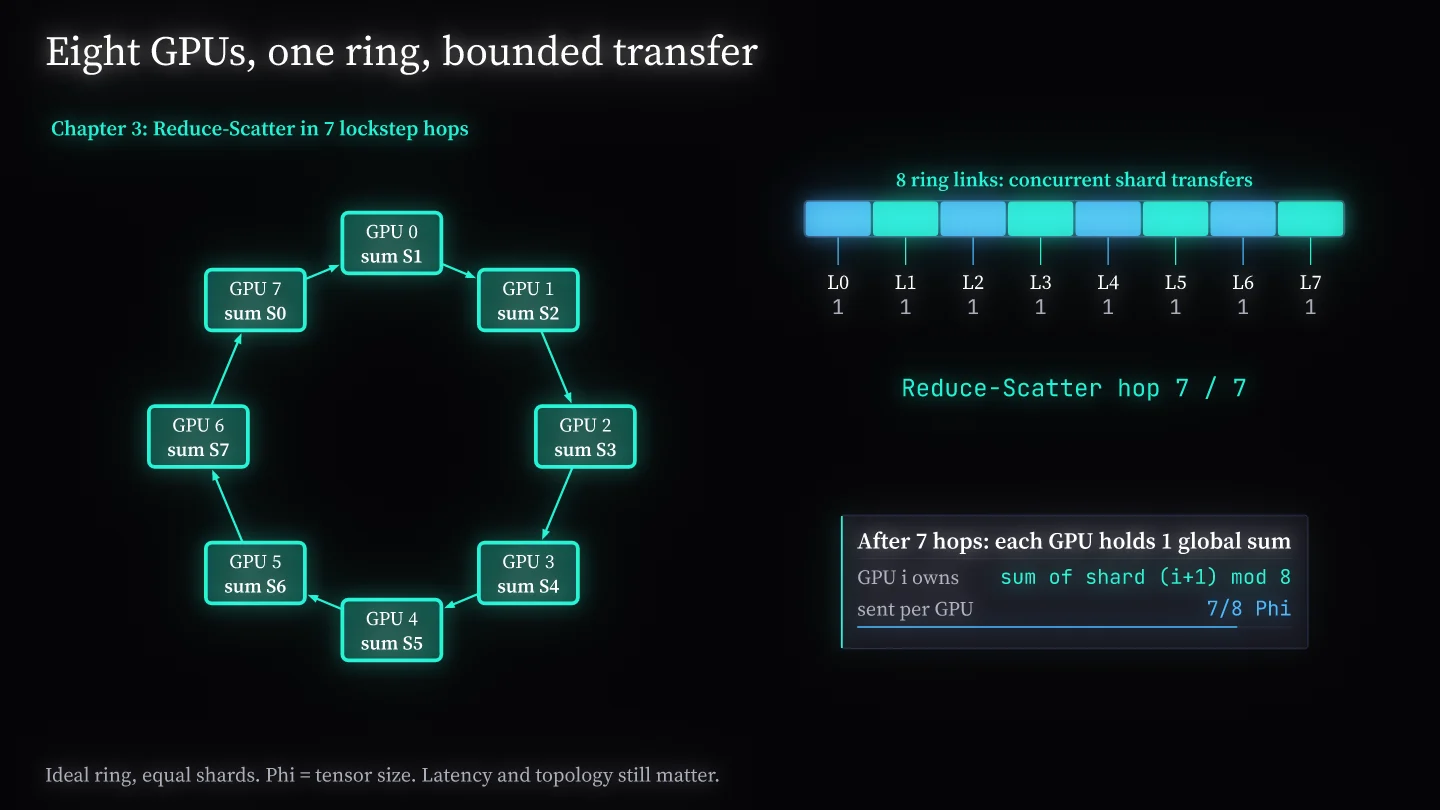
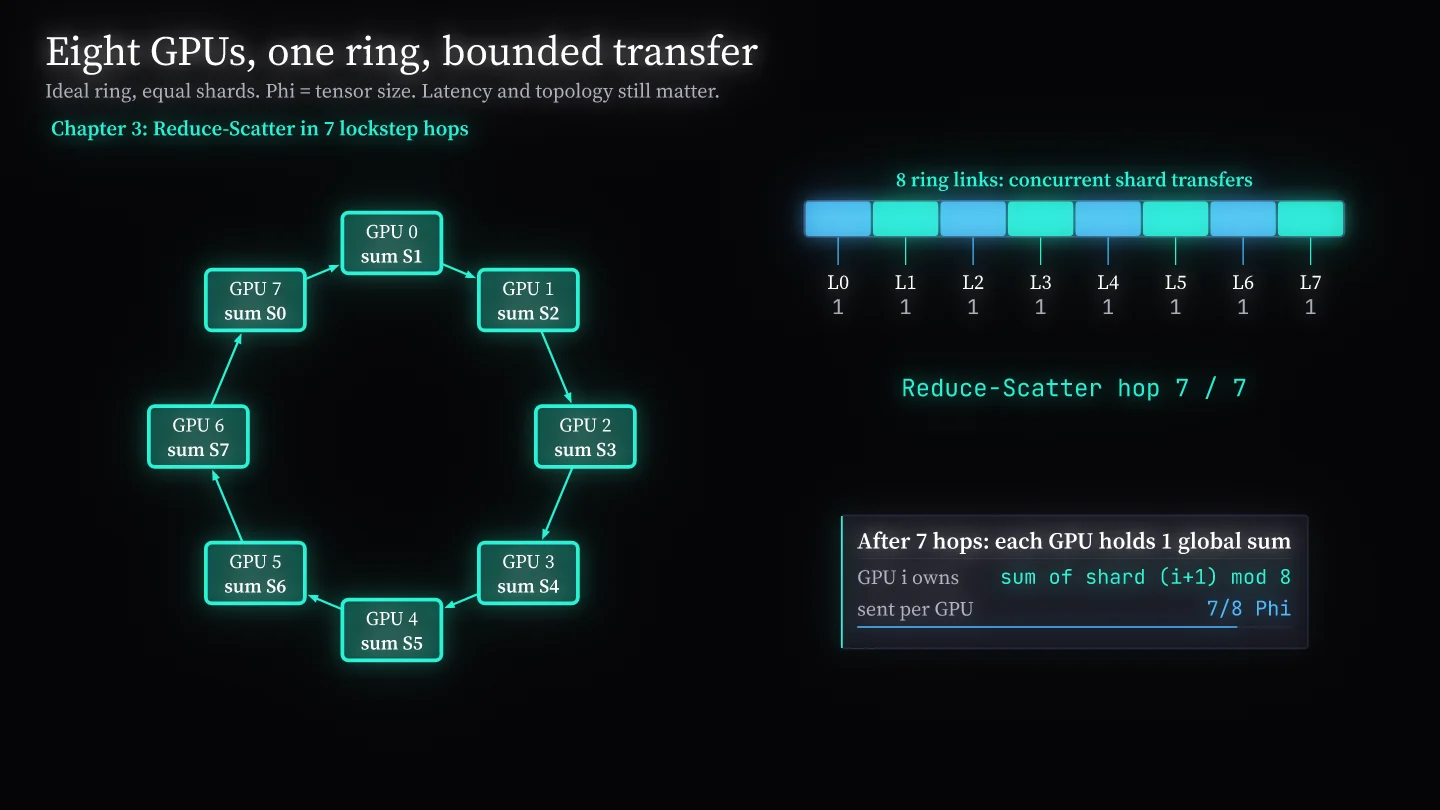
Preserve Studio editor focus and keep film sources clear of player controls

Changed region(s): [[0.0312, 0.0926, 0.5, 0.1235], [0.2188, 0.9259, 0.5, 0.9877], [0.0312, 0.9259, 0.1875, 0.9877]]

diff --git a/src/studio/panels.ts b/src/studio/panels.ts
@@ -265,8 +265,6 @@ export class Inspector {
             beat ? `beat:${beat.id}:${beat.kind}:${beat.ease}` : '',
             object ? `object:${object.id}:${object.kind}` : '',
             selection.length,
-            this.app.built?.objectErrors.size ?? 0,
-            this.app.built?.beatErrors.size ?? 0,
             object ? project.beats.filter((entry) => entry.target === object.id).map((entry) => `${entry.id}${entry.kind}`).join() : '',
             !object && !beat && selection.length === 0 ? project.variables.map((variable) => variable.name).join() : '',
             project.objects.length,
@@ -276,6 +274,13 @@ export class Inspector {
             this.rebuild(beat, object)
         } else {
             for (const control of this.controls) control.sync()
+        }
+        for (const message of this.body.querySelectorAll<HTMLElement>('[data-object-error], [data-beat-error]')) {
+            const error = message.dataset.objectError
+                ? this.app.built?.objectErrors.get(message.dataset.objectError)
+                : this.app.built?.beatErrors.get(message.dataset.beatError!)
+            message.textContent = error ?? ''
+            message.hidden = !error
         }
     }
 
@@ -332,7 +337,7 @@ export class Inspector {
         })
         wrap.appendChild(h('header', { class: 'inspector-head' }, nameInput, h('span', { class: 'kind-tag' }, def?.label ?? object.kind)))
         const error = this.app.built?.objectErrors.get(object.id)
-        if (error) wrap.appendChild(h('p', { class: 'inspector-error', role: 'alert' }, error))
+        wrap.appendChild(h('p', { class: 'inspector-error', role: 'alert', 'data-object-error': object.id, hidden: !error }, error ?? ''))
         const transform = h('div', { class: 'field-grid' })
         for (const field of TRANSFORM_FIELDS) {
             this.addField(transform, field, {
@@ -433,7 +438,7 @@ export class Inspector {
                 h('span', { class: 'head-actions' },
                     iconButton('play', { title: 'Preview this beat', testId: 'preview-beat', onClick: () => this.app.previewBeat(beat.id) }),
                     iconButton('trash', { title: 'Delete this beat (Delete)', testId: 'delete-beat', onClick: () => this.app.deleteBeat(beat.id) }))),
-            error ? h('p', { class: 'inspector-error', role: 'alert' }, error) : null,
+            h('p', { class: 'inspector-error', role: 'alert', 'data-beat-error': beat.id, hidden: !error }, error ?? ''),
             this.section('Timing', grid, easeButton ? h('div', { class: 'field' }, h('span', { class: 'field-label' }, 'Easing'), h('div', { class: 'field-control' }, easeButton)) : null),
             def?.fields.length ? this.section('Settings', stack) : null)
     }

diff --git a/examples/films/flash-attention.ts b/examples/films/flash-attention.ts
@@ -148,7 +148,7 @@ export default film(
         poster: 21.5,
     },
     (s) => {
-        const kit = sceneKit({ size: 38 })
+        const kit = sceneKit({ size: 38, source: { y: -420 } })
         const title = kit.heading('FlashAttention: tiling beats memory bandwidth')
         const source = kit.source('Dao et al., "FlashAttention: Fast and Memory-Efficient Exact Attention with IO-Awareness," NeurIPS 2022')
         s.add(title, source)

diff --git a/examples/films/svd-3d.ts b/examples/films/svd-3d.ts
@@ -205,7 +205,7 @@ export default film(
     poster: 26.0,
   },
   (s) => {
-    const kit = sceneKit({ size: 38 })
+    const kit = sceneKit({ size: 38, source: { y: -420 } })
     const title = kit.heading('SVD: reorient, stretch, reorient')
     const qualification = kit.source('U and V are orthogonal: rotations or reflections. This example uses rotations.')
     s.add(title, qualification)

diff --git a/examples/films/ring-allreduce.ts b/examples/films/ring-allreduce.ts
@@ -113,7 +113,7 @@ export default film(
     poster: 26.5,
   },
   (s) => {
-    const kit = sceneKit({ size: 38 })
+    const kit = sceneKit({ size: 38, source: { y: -420 } })
     const title = kit.heading('Eight GPUs, one ring, bounded transfer')
     const modelNote = kit.source('Ideal ring, equal shards. Phi = tensor size. Latency and topology still matter.')
     s.add(title, modelNote)

diff --git a/.agents/skills/vizmatic/SKILL.md b/.agents/skills/vizmatic/SKILL.md
@@ -40,7 +40,7 @@ npm install vizmatic
    npx vizmatic film intro.ts --frame 2,5.5,9,12 --width 1280 --out stills
    npx vizmatic film intro.ts --every 4 --sheet --out stills
    ```
-   `--sheet` joins sampled frames into timestamped contact sheets (`--columns <n>` sets grid width). Use full-size stills for layout review and sheets for pacing.
+   `--sheet` joins sampled frames into timestamped contact sheets (`--columns <n>` sets grid width). Use full-size stills for layout review and sheets for pacing. Also inspect browser playback and paused frames at the intended display size: controls and captions must not cover source notes, assumptions, or other essential text.
 5. Export when layout and pacing pass inspection:
    ```bash
    npx vizmatic film intro.ts --out dist/films --look midnight,paper --quality high --poster

diff --git a/plugins/vizmatic/skills/vizmatic/SKILL.md b/plugins/vizmatic/skills/vizmatic/SKILL.md
@@ -40,7 +40,7 @@ npm install vizmatic
    npx vizmatic film intro.ts --frame 2,5.5,9,12 --width 1280 --out stills
    npx vizmatic film intro.ts --every 4 --sheet --out stills
    ```
-   `--sheet` joins sampled frames into timestamped contact sheets (`--columns <n>` sets grid width). Use full-size stills for layout review and sheets for pacing.
+   `--sheet` joins sampled frames into timestamped contact sheets (`--columns <n>` sets grid width). Use full-size stills for layout review and sheets for pacing. Also inspect browser playback and paused frames at the intended display size: controls and captions must not cover source notes, assumptions, or other essential text.
 5. Export when layout and pacing pass inspection:
    ```bash
    npx vizmatic film intro.ts --out dist/films --look midnight,paper --quality high --poster
